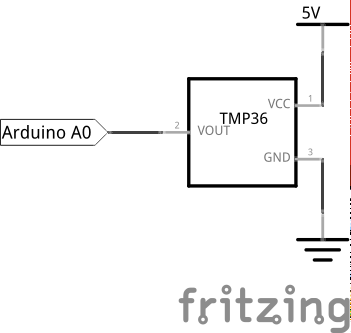
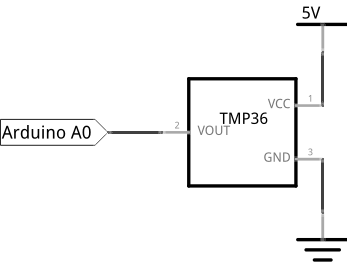
arduino link fixes, diagram trimmed

Changed region(s): [[0.2882, 0.0, 1.0, 1.0], [0.0, 0.3478, 0.2882, 0.5507]]

diff --git a/Omega2/Kit-Guides/Arduino/experiments/10-shift-register.md b/Omega2/Kit-Guides/Arduino/experiments/10-shift-register.md
@@ -50,7 +50,7 @@ Prepare the following components from your kit:
 
 The IC should be plugged in across the channel of your breadboard (the slot running down the middle separating the `abcde` columns from the `fghij` columns). If you don't do this you will short out the pins across your IC. You may need to bend the pins just a bit in order to get it to fit.
 
-![Shift register data flow](https://raw.githubusercontent.com/OnionIoT/Onion-Docs/master/Omega2/Kit-Guides/img/shift-register-block-diagram.jpg)
+![Shift register data flow](https://raw.githubusercontent.com/OnionIoT/Onion-Docs/master/Omega2/Kit-Guides/img/shift-register-block-diagram.png)
 
 Lets take a look at how the 16 pins of the 74HC595 shift register chip are defined.  We'll be referring to each pin by the numbers provided in the diagram above. When plugged in with the letters being right-side up, the bottow row of pins are pin 1 to 8 going from left to right. The top row of pins are pin 9 to 16 going from right to left.
 

diff --git a/Omega2/Kit-Guides/shared/circuit-components/relay.md b/Omega2/Kit-Guides/shared/circuit-components/relay.md
@@ -1,0 +1,4 @@
+### Relay Switch {#circuit-components-relay-switch}
+
+A relay switch is a mechanical switch that is triggered electronically.
+
